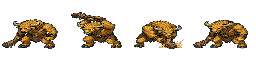
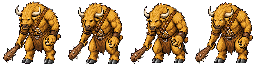
feat: GPT 재작업 대기/공격 시트 9개 통합 · 크기 보정 코드 제거
정본 저장소(arad-gunblade)의 63d75d3 와 동일한 내용으로 동기화.
자세한 내용은 그쪽 커밋 메시지 참고.

Claude-Session: https://claude.ai/code/session_01JQrqj8VwghESuWCrw9YgFX

diff --git a/src/entities/EnemySprite.ts b/src/entities/EnemySprite.ts
@@ -5,80 +5,30 @@ import { ASSET, cloneTex } from '../rendering/assets'
 
 export type EnemyAnimState = 'idle' | 'walk' | 'attack'
 
-/** 시트 실측값 — tools/measure_sprites.py 로 뽑는다 */
-interface SheetMetrics {
-  /** 정사각 셀 한 변(px) */
-  cell: number
-  /** 가로 스트립 프레임 수 */
-  frames: number
-  /** 셀 안 캐릭터 높이(px, 프레임별 중앙값) */
-  bodyH: number
-  /** 셀 안 발 y좌표(px, 프레임별 중앙값) */
-  feetY: number
-}
-
 /**
- * 같은 몬스터인데도 시트마다 캐릭터가 셀 안에서 다른 크기·위치로 그려져 있다.
- * 걷기 시트는 셀을 꽉 채우고 발이 바닥에 닿지만, 대기/공격 시트는 셀 중앙에
- * 40~50% 크기로 떠 있다. 셀 기준으로 그리면 동작이 바뀔 때마다 몬스터가
- * 2배 이상 커졌다 작아지고, 공중에 뜬 채로 보인다.
- *
- * 아트를 리스케일하면 원본 픽셀 디테일이 뭉개지므로 렌더 단계에서 보정한다.
- * 시트를 교체하면 tools/measure_sprites.py 를 다시 돌려 이 표를 갱신할 것.
+ * 각 애니메이션의 프레임 수 (시트 = 가로 스트립, 정사각 셀)
+ * 시트 규격은 tools/measure_sprites.py 로 검사한다 — 셀 크기·프레임 수가 맞고
+ * 모든 프레임의 발이 셀 아래변에 닿아 있어야 이 단순한 렌더링이 성립한다.
  */
-const ART: Record<EnemyKind, Record<EnemyAnimState, SheetMetrics>> = {
-  imp: {
-    idle: { cell: 48, frames: 4, bodyH: 19, feetY: 32 },
-    walk: { cell: 48, frames: 6, bodyH: 47, feetY: 47 },
-    attack: { cell: 48, frames: 4, bodyH: 20, feetY: 33 },
-  },
-  brute: {
-    idle: { cell: 64, frames: 4, bodyH: 29, feetY: 48 },
-    walk: { cell: 64, frames: 6, bodyH: 62, feetY: 63 },
-    attack: { cell: 64, frames: 4, bodyH: 27, feetY: 50 },
-  },
-  shooter: {
-    idle: { cell: 48, frames: 4, bodyH: 19, feetY: 32 },
-    walk: { cell: 48, frames: 6, bodyH: 48, feetY: 47 },
-    attack: { cell: 48, frames: 4, bodyH: 20, feetY: 33 },
-  },
-  boss: {
-    idle: { cell: 96, frames: 4, bodyH: 42, feetY: 70 },
-    walk: { cell: 96, frames: 6, bodyH: 81, feetY: 95 },
-    attack: { cell: 96, frames: 6, bodyH: 42, feetY: 78 },
-  },
+const FRAMES: Record<EnemyKind, Record<EnemyAnimState, number>> = {
+  imp: { idle: 4, walk: 6, attack: 4 },
+  brute: { idle: 4, walk: 6, attack: 4 },
+  shooter: { idle: 4, walk: 6, attack: 4 },
+  boss: { idle: 4, walk: 6, attack: 6 },
 }
-
 const FPS: Record<EnemyAnimState, number> = { idle: 5, walk: 10, attack: 12 }
 
-/** 캐릭터(발~머리) 월드 높이 — 셀 높이가 아니라 실제 몬스터 크기 */
+/** 셀(=캐릭터) 월드 높이 */
 const SCALE: Record<EnemyKind, number> = { imp: 2.2, brute: 3.5, shooter: 2.4, boss: 5.4 }
-
-/** 시트를 셀 기준으로 그릴 때의 스프라이트 크기 (캐릭터가 SCALE 높이가 되도록 역산) */
-const spriteH = (kind: EnemyKind, s: EnemyAnimState) =>
-  SCALE[kind] * (ART[kind][s].cell / ART[kind][s].bodyH)
-
-/**
- * 스프라이트 앵커(center)를 캐릭터의 발 높이에 둔다 → 앵커를 지면에 놓으면 발이 지면에 선다.
- *
- * 월드 y로 내려서 보정하면 안 된다: 카메라가 기울어져 있어 월드 y 이동은 화면에서
- * 단축되는데, 보정해야 할 '셀 안 여백'은 스프라이트 공간(단축 없음)에 있다.
- * 두 값의 스케일이 달라 아무리 맞춰도 발이 지면에서 뜬다. center 는 스프라이트
- * 공간이라 정확히 상쇄된다.
- */
-const footCenterY = (kind: EnemyKind, s: EnemyAnimState) => {
-  const m = ART[kind][s]
-  return (m.cell - 1 - m.feetY) / m.cell
-}
 
 /**
  * 사망 연출용 스프라이트 재료 — 대기 시트의 첫 프레임 기준.
  * (시트 전체를 그대로 넘기면 프레임 4장이 가로로 눌려 나온다)
  */
-export function enemyDeathArt(kind: EnemyKind): { map: THREE.Texture; scale: number; centerY: number } {
+export function enemyDeathArt(kind: EnemyKind): { map: THREE.Texture; scale: number } {
   const map = cloneTex(ASSET.monsters[kind].idle)
-  map.repeat.set(1 / ART[kind].idle.frames, 1)
-  return { map, scale: spriteH(kind, 'idle'), centerY: footCenterY(kind, 'idle') }
+  map.repeat.set(1 / FRAMES[kind].idle, 1)
+  return { map, scale: SCALE[kind] }
 }
 export { SCALE as ENEMY_SCALE }
 
@@ -107,16 +57,17 @@ export class EnemySprite {
       attack: cloneTex(src.attack),
     }
     for (const k of ['idle', 'walk', 'attack'] as EnemyAnimState[]) {
-      this.texes[k].repeat.set(1 / ART[kind][k].frames, 1)
+      this.texes[k].repeat.set(1 / FRAMES[kind][k], 1)
     }
 
     this.mat = new THREE.SpriteMaterial({ map: this.texes.idle, transparent: true, depthWrite: false })
     this.sprite = new THREE.Sprite(this.mat)
-    this.group.add(this.sprite)
-    this.applyMetrics()
-
-    // 발밑 그림자 — 캐릭터 실제 크기 기준
+    this.sprite.center.set(0.5, 0) // 발이 셀 아래변에 있으므로 앵커도 바닥
     const sc = SCALE[kind]
+    this.sprite.scale.set(sc, sc, 1)
+    this.group.add(this.sprite)
+
+    // 발밑 그림자
     const shadowMat = noOutline(
       new THREE.MeshBasicMaterial({ color: 0x000000, transparent: true, opacity: 0.3, depthWrite: false }),
     )
@@ -125,13 +76,6 @@ export class EnemySprite {
     shadow.position.y = 0.02
     shadow.scale.set(1, 0.55, 1)
     this.group.add(shadow)
-  }
-
-  /** 현재 상태 시트에 맞춰 크기와 발 기준점을 잡는다 (시트별 캐릭터 크기·여백 차이 보정) */
-  private applyMetrics() {
-    const h = spriteH(this.kind, this.state)
-    this.sprite.scale.set(h, h, 1)
-    this.sprite.center.set(0.5, footCenterY(this.kind, this.state))
   }
 
   /** 공격 모션 재생 (지속시간 동안 attack 상태 유지) */
@@ -152,11 +96,10 @@ export class EnemySprite {
       this.time = 0
       this.mat.map = this.texes[next]
       this.mat.needsUpdate = true
-      this.applyMetrics()
     }
     this.time += dt
 
-    const n = ART[this.kind][this.state].frames
+    const n = FRAMES[this.kind][this.state]
     const idx = Math.floor(this.time * FPS[this.state]) % n
     const fw = 1 / n
     const map = this.mat.map!

diff --git a/src/systems/Effects.ts b/src/systems/Effects.ts
@@ -39,14 +39,11 @@ export class Effects {
     this.layer = uiLayer
   }
 
-  /**
-   * 적 사망 산화: 흰 섬광 → 주황 틴트로 주저앉으며 소멸
-   * @param centerY 시트 안 캐릭터의 발 높이(스프라이트 공간 0..1) — 앵커를 발에 둔다
-   */
-  deathDissolve(pos: THREE.Vector3, map: THREE.Texture, scale: number, centerY = 0) {
+  /** 적 사망 산화: 흰 섬광 → 주황 틴트로 주저앉으며 소멸 */
+  deathDissolve(pos: THREE.Vector3, map: THREE.Texture, scale: number) {
     const mat = new THREE.SpriteMaterial({ map, transparent: true, depthWrite: false })
     const sp = new THREE.Sprite(mat)
-    sp.center.set(0.5, centerY)
+    sp.center.set(0.5, 0)
     sp.scale.set(scale, scale, 1)
     sp.position.set(pos.x, 0.02, pos.z)
     this.scene.add(sp)

diff --git a/src/core/Game.ts b/src/core/Game.ts
@@ -887,7 +887,7 @@ export class Game {
     this.scene.remove(e.group)
     this.kills++
     const death = enemyDeathArt(e.kind)
-    this.effects.deathDissolve(e.pos, death.map, death.scale, death.centerY)
+    this.effects.deathDissolve(e.pos, death.map, death.scale)
     this.effects.playFx('death', e.pos.x, 1.0, e.pos.z, ENEMY_SCALE[e.kind] * 1.3)
 
     // 경험치 + 골드 드랍

diff --git a/tools/measure_sprites.py b/tools/measure_sprites.py
@@ -1,19 +1,20 @@
 #!/usr/bin/env python3
-"""몬스터 시트의 실측값을 뽑아 EnemySprite.ts 의 ART 표를 생성한다.
+"""몬스터 시트 규격 검사기.
 
-왜 필요한가:
-  같은 몬스터의 대기/걷기/공격 시트가 셀 안에서 서로 다른 크기로 그려져 왔다.
-  (걷기는 셀을 꽉 채우고 발이 바닥에 닿는데, 대기/공격은 셀 중앙에 작게 떠 있음)
-  스프라이트를 셀 기준으로 그리면 동작이 바뀔 때마다 몬스터 크기가 튀고 공중에 뜬다.
+EnemySprite.ts 의 렌더링은 시트가 아래 규격을 지킨다는 전제로 단순하게 짜여 있다.
+새 시트를 받으면 통합 전에 이걸 먼저 돌려 규격 위반을 잡는다.
 
-  아트를 리스케일하면 원본 디테일이 뭉개지므로, 대신 시트별 실측값
-  (셀 안 캐릭터 높이 / 발 y좌표) 을 코드에 넘겨 렌더 단계에서 보정한다.
+  1. 가로 스트립, 정사각 셀 (가로 = 셀 x 프레임수)
+  2. 셀 크기·프레임 수가 EnemySprite.ts 의 FRAMES 와 일치
+  3. 모든 프레임의 발(=최하단 불투명 픽셀)이 셀 아래변에 닿음
+     -> 안 지키면 몬스터가 공중에 뜬다
+  4. 같은 몬스터의 대기/걷기 캐릭터 높이가 비슷함 (비율 0.85~1.2)
+     -> 안 지키면 동작이 바뀔 때 몬스터 크기가 튄다
+     (공격은 웅크리는 자세가 많아 낮게 나오는 것이 정상이므로 경고만)
 
 사용법:
-  python3 tools/measure_sprites.py          # 표 출력
-  python3 tools/measure_sprites.py --check  # 현재 TS 표와 불일치 시 종료코드 1
-
-새 시트를 받으면 이걸 다시 돌려 EnemySprite.ts 의 ART 를 갱신하면 된다.
+  python3 tools/measure_sprites.py          # 검사 결과 출력
+  종료코드 0 = 통과, 1 = 위반 있음
 """
 import sys
 from statistics import median
@@ -21,28 +22,37 @@ from PIL import Image
 
 ROOT = 'public/assets/stage1'
 
-# kind -> (디렉터리, idle, walk, attack)
+# kind -> (디렉터리, [(상태, 파일명, 기대 프레임수)])
 MON = {
-    'imp':     ('stage1_goblins', 'melee_goblin_idle_4f', 'melee_goblin_walk_6f', 'melee_goblin_club_attack_4f'),
-    'brute':   ('stage1_tau',     'tau_warrior_idle_4f',  'tau_warrior_walk_6f',  'tau_warrior_slam_4f'),
-    'shooter': ('stage1_goblins', 'fire_goblin_idle_4f',  'fire_goblin_walk_6f',  'fire_goblin_cast_4f'),
-    'boss':    ('stage1_tau',     'tau_chief_idle_4f',    'tau_chief_move_6f',    'tau_chief_slam_6f'),
+    'imp': ('stage1_goblins', [
+        ('idle', 'melee_goblin_idle_4f', 4),
+        ('walk', 'melee_goblin_walk_6f', 6),
+        ('attack', 'melee_goblin_club_attack_4f', 4),
+    ]),
+    'shooter': ('stage1_goblins', [
+        ('idle', 'fire_goblin_idle_4f', 4),
+        ('walk', 'fire_goblin_walk_6f', 6),
+        ('attack', 'fire_goblin_cast_4f', 4),
+    ]),
+    'brute': ('stage1_tau', [
+        ('idle', 'tau_warrior_idle_4f', 4),
+        ('walk', 'tau_warrior_walk_6f', 6),
+        ('attack', 'tau_warrior_slam_4f', 4),
+    ]),
+    'boss': ('stage1_tau', [
+        ('idle', 'tau_chief_idle_4f', 4),
+        ('walk', 'tau_chief_move_6f', 6),
+        ('attack', 'tau_chief_slam_6f', 6),
+    ]),
 }
 
 
 def measure(path):
-    """(셀 크기, 프레임 수, 대표 캐릭터 높이, 대표 발 y) — 프레임별 중앙값 기준.
-
-    중앙값을 쓰는 이유: 웅크림·도약처럼 프레임마다 키가 달라지는 것은 애니메이션
-    자체이므로 유지해야 한다. 시트 전체에 단일 보정값만 적용한다.
-    """
     im = Image.open(path).convert('RGBA')
     w, h = im.size
-    cell = h                      # 정사각 셀 전제 (가로 스트립)
-    if w % cell:
-        raise SystemExit(f'{path}: 가로 {w} 가 셀 {cell} 의 배수가 아니다')
-    n = w // cell
+    cell = h
     px = im.load()
+    n = w // cell if cell else 0
     heights, feet = [], []
     for i in range(n):
         x0 = i * cell
@@ -55,30 +65,56 @@ def measure(path):
         if top is not None:
             heights.append(bot - top + 1)
             feet.append(bot)
-    return cell, n, int(median(heights)), int(median(feet))
+    return dict(w=w, h=h, cell=cell, frames=n, heights=heights, feet=feet)
 
 
-rows = []
-for kind, (d, idle, walk, atk) in MON.items():
-    entry = {}
-    for state, name in (('idle', idle), ('walk', walk), ('attack', atk)):
-        cell, n, bh, fy = measure(f'{ROOT}/{d}/{name}.png')
-        entry[state] = dict(cell=cell, frames=n, bodyH=bh, feetY=fy)
-    rows.append((kind, entry))
+FEET_TOL = 2  # 발 위치 허용오차(px) — 1~2px 차이는 눈에 보이지 않는다
 
-print('// tools/measure_sprites.py 로 생성 — 시트를 교체하면 다시 돌려 갱신할 것')
-print('const ART: Record<EnemyKind, Record<EnemyAnimState, SheetMetrics>> = {')
-for kind, e in rows:
-    print(f'  {kind}: {{')
-    for state in ('idle', 'walk', 'attack'):
-        m = e[state]
-        print(f'    {state}: {{ cell: {m["cell"]}, frames: {m["frames"]}, '
-              f'bodyH: {m["bodyH"]}, feetY: {m["feetY"]} }},')
-    print('  },')
-print('}')
+errors, warnings = [], []
+print(f'{"kind":9} {"state":7} {"size":>10} {"cell":>5} {"frames":>7} {"bodyH(med)":>11} {"ratio":>6}')
+print('-' * 64)
 
-print('\n// 참고: 상태 간 캐릭터 높이 비율 (1.0에서 멀면 크기가 튄다)', file=sys.stderr)
-for kind, e in rows:
-    ref = e['walk']['bodyH'] / e['walk']['cell']
-    ratios = {s: round((e[s]['bodyH'] / e[s]['cell']) / ref, 2) for s in ('idle', 'walk', 'attack')}
-    print(f'//   {kind:8} {ratios}', file=sys.stderr)
+for kind, (d, sheets) in MON.items():
+    # 걷기를 기준으로 삼으므로 먼저 전부 측정한 뒤 비교한다
+    got = {}
+    for state, name, want_frames in sheets:
+        try:
+            got[state] = (name, want_frames, measure(f'{ROOT}/{d}/{name}.png'))
+        except FileNotFoundError:
+            errors.append(f'{name}: 파일 없음')
+
+    if 'walk' not in got:
+        continue
+    wm = got['walk'][2]
+    ref = (median(wm['heights']) / wm['cell']) if wm['heights'] else 0
+
+    for state, name, want_frames in sheets:
+        if state not in got:
+            continue
+        _, want_frames, m = got[state]
+        bh = median(m['heights']) if m['heights'] else 0
+        ratio = (bh / m['cell']) / ref if ref else float('nan')
+        size = '{}x{}'.format(m['w'], m['h'])
+        print(f'{kind:9} {state:7} {size:>10} {m["cell"]:>5} '
+              f'{m["frames"]:>7} {bh:>11.0f} {ratio:>6.2f}')
+
+        if m['w'] % m['cell']:
+            errors.append(f'{name}: 가로 {m["w"]} 가 셀 {m["cell"]} 의 배수가 아님')
+        if m['frames'] != want_frames:
+            errors.append(f'{name}: 프레임 {m["frames"]}개 (기대 {want_frames}개)')
+        bad = [(i, f) for i, f in enumerate(m['feet']) if m['cell'] - 1 - f > FEET_TOL]
+        if bad:
+            errors.append(f'{name}: 발이 셀 바닥에서 뜬 프레임 {[i for i, _ in bad]} '
+                          f'(발y={[f for _, f in bad]}, 기대 {m["cell"] - 1})')
+        if state == 'idle' and not (0.85 <= ratio <= 1.2):
+            errors.append(f'{name}: 대기 캐릭터 크기가 걷기의 {ratio:.2f}배 (0.85~1.2 이어야 함)')
+        if state == 'attack' and not (0.5 <= ratio <= 1.2):
+            warnings.append(f'{name}: 공격 캐릭터 크기가 걷기의 {ratio:.2f}배 — 자세 때문인지 확인')
+    print()
+
+for w in warnings:
+    print(f'경고: {w}')
+for e in errors:
+    print(f'위반: {e}')
+print(f'\n{"통과" if not errors else f"위반 {len(errors)}건"}')
+sys.exit(1 if errors else 0)
